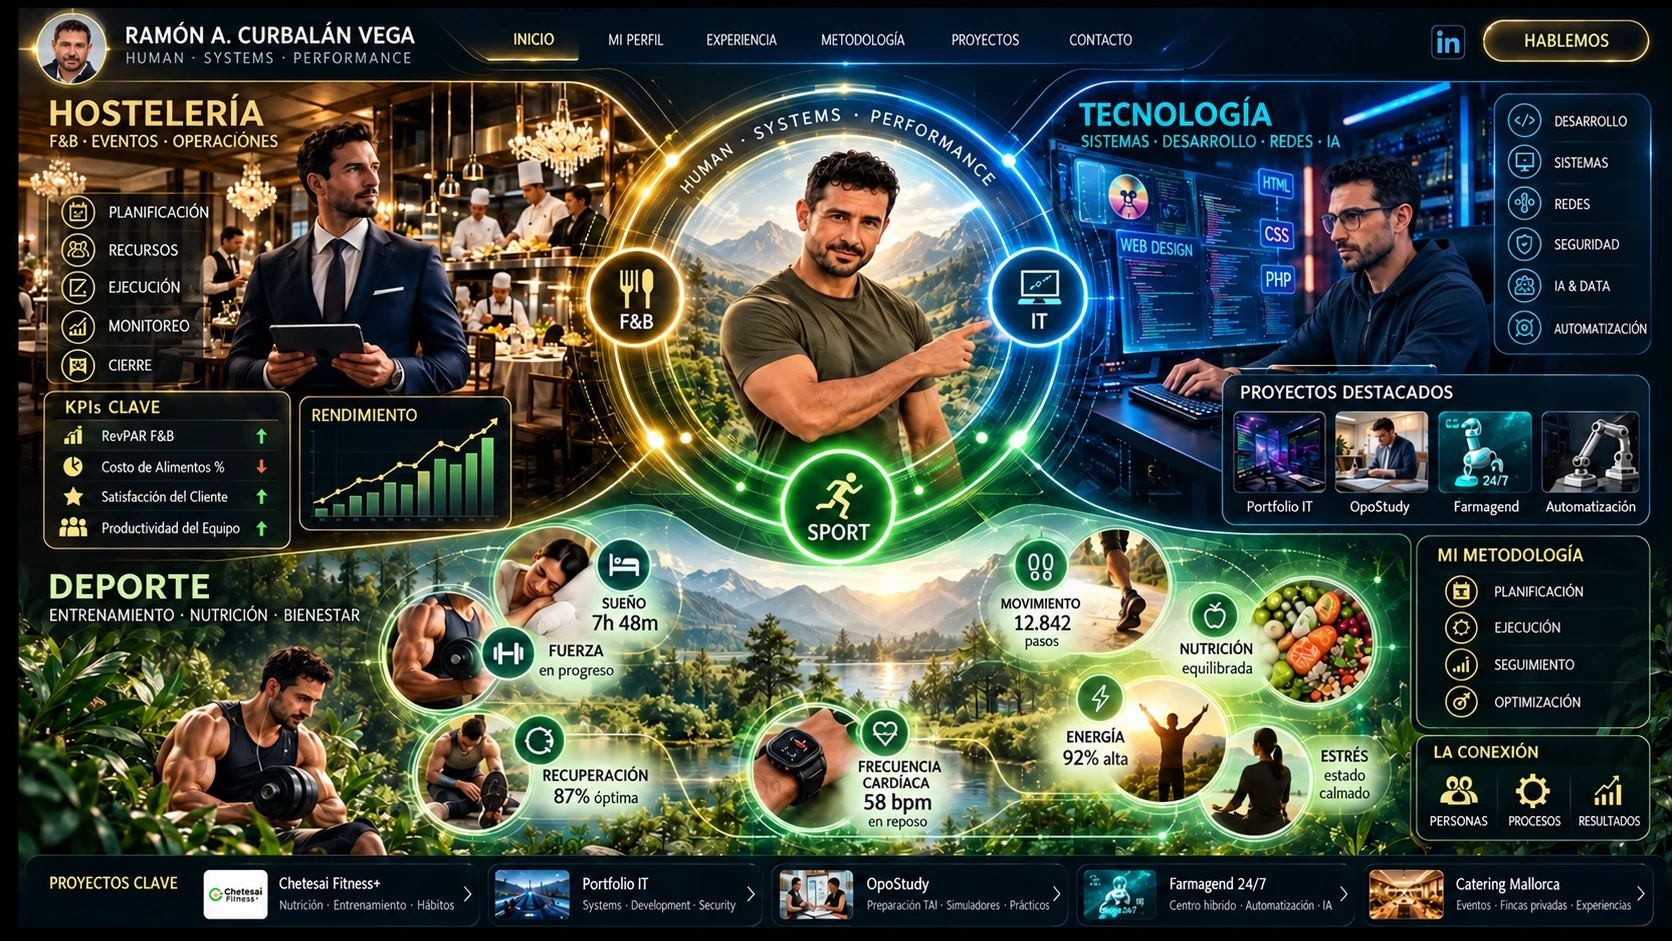
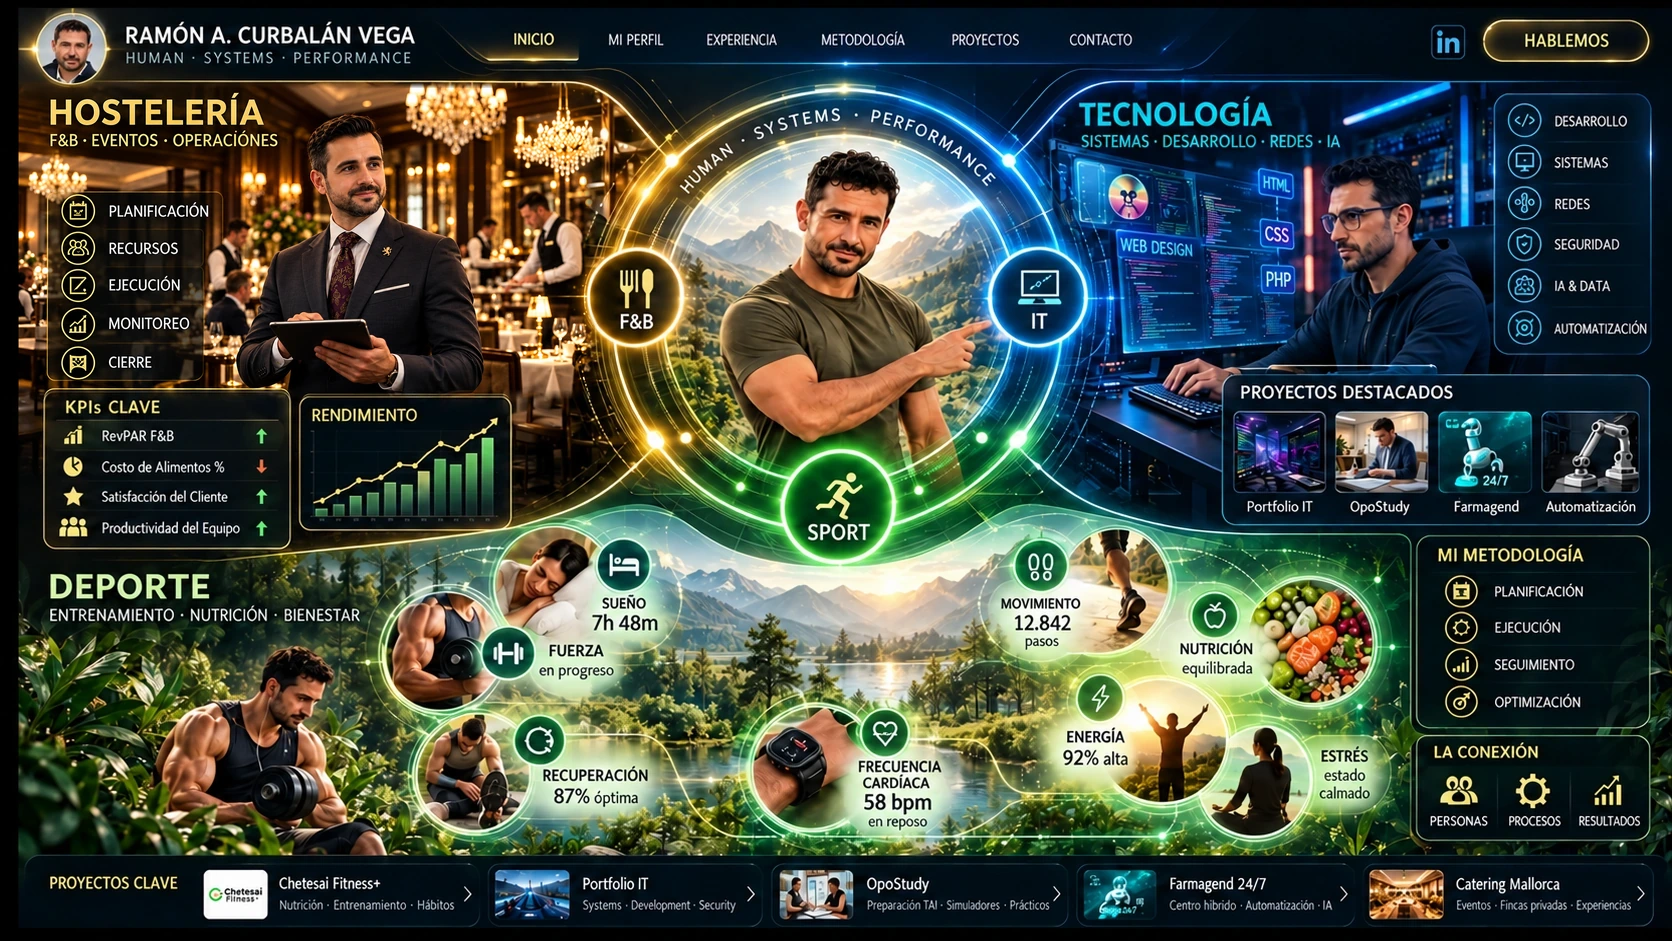
Integrate approved hospitality visual into cluster

Changed region(s): [[0.0, 0.0616, 0.3732, 0.4315]]

diff --git a/index.html b/index.html
@@ -23,7 +23,7 @@ dialog p{margin:0;color:#c9d6dc;line-height:1.65}
 </head>
 <body>
 <main class="cluster-stage" id="cluster">
-<img src="assets/cluster-approved.webp?v=perfil-final" alt="Cluster Human Systems Performance de Ramón A. Curbalán Vega">
+<img src="assets/cluster-approved.webp?v=hosteleria-integrada" alt="Cluster Human Systems Performance de Ramón A. Curbalán Vega">
 
 <!-- navegación -->
 <button class="hotspot" style="left:28.4%;top:0;width:5.3%;height:6.8%" data-open="Inicio" aria-label="Inicio"></button>
